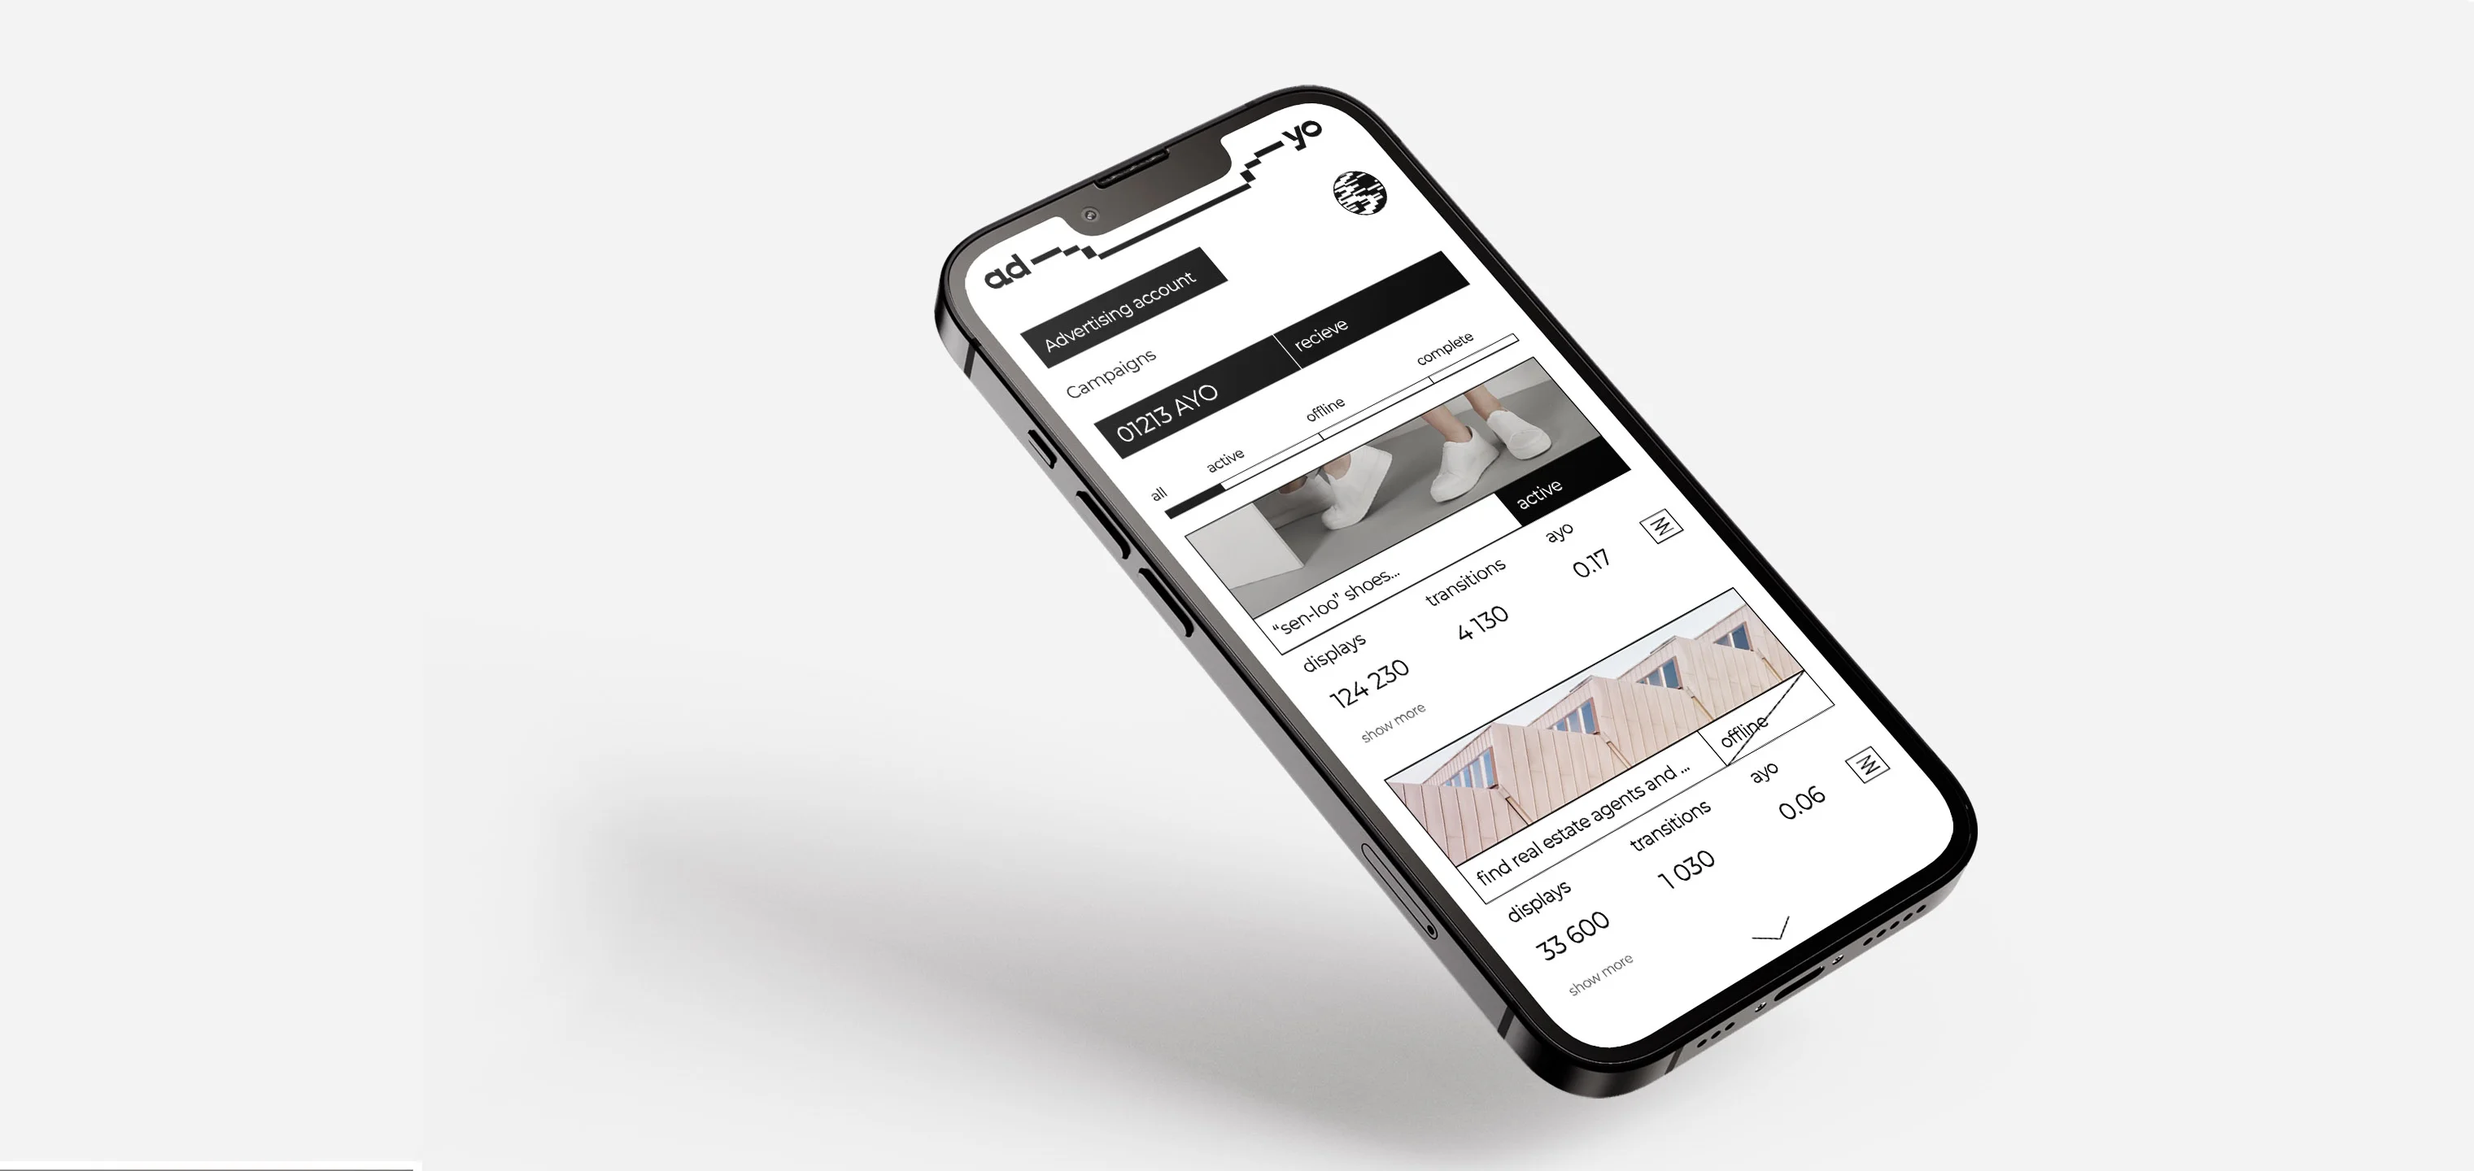
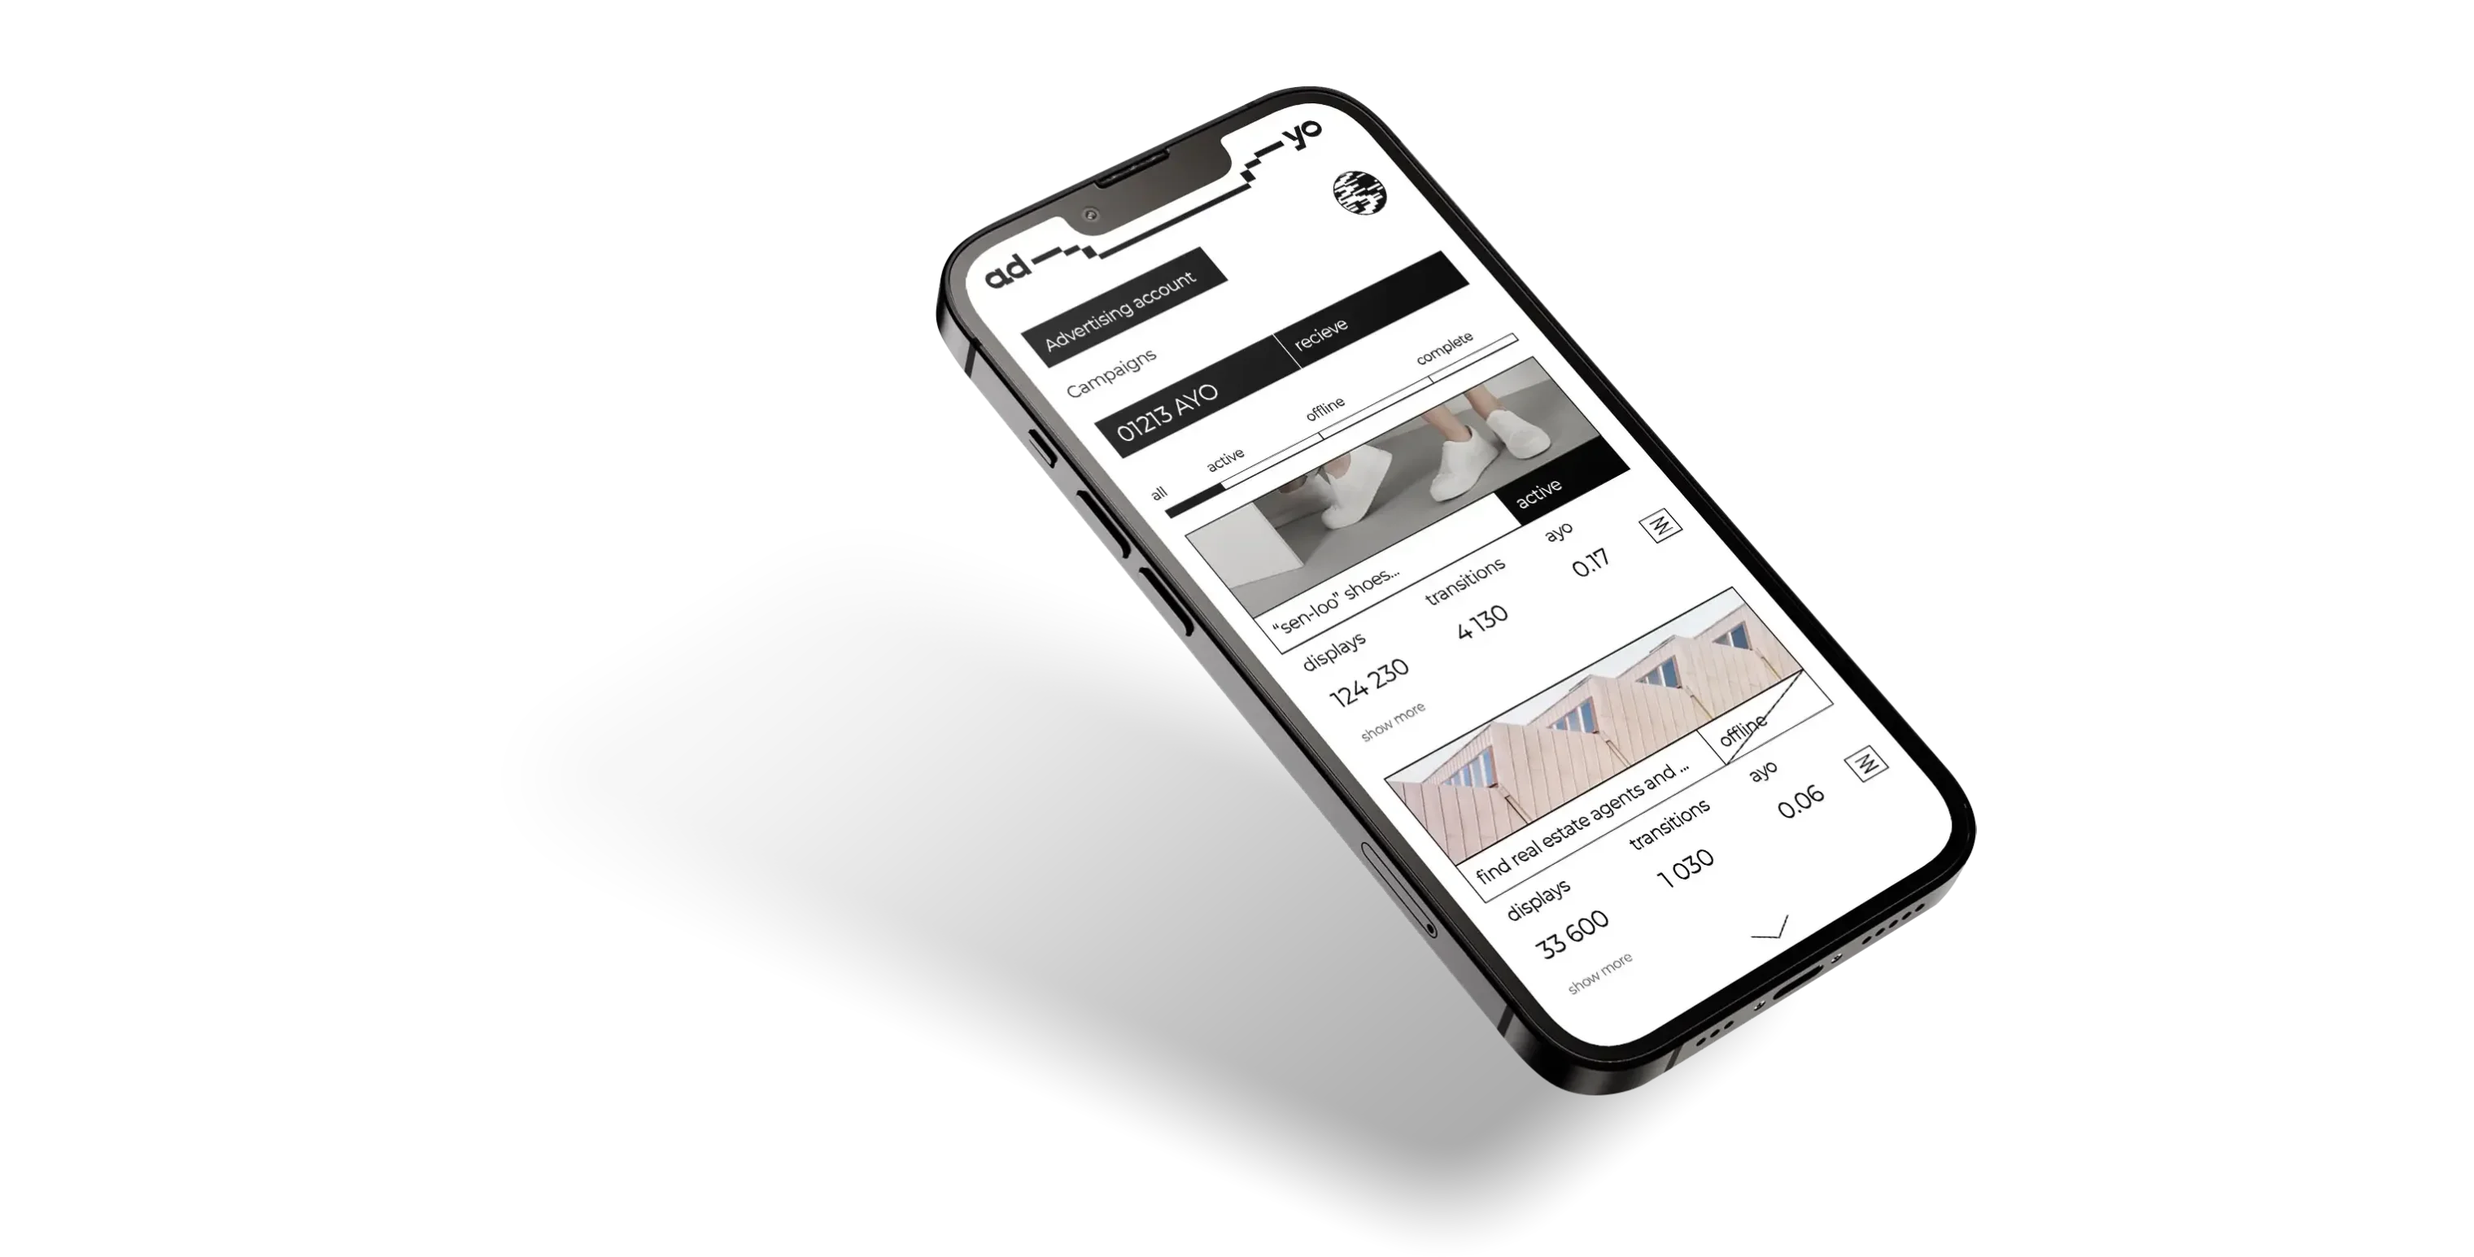
Desktop layout updates

Changed region(s): [[0.2187, 0.0625, 0.8122, 1.0]]

diff --git a/src/components/Snake.vue b/src/components/Snake.vue
@@ -10,7 +10,7 @@ const refBlockCT = ref<HTMLElement>();
 const refBlockRT = ref<HTMLElement>();
 const MIN_WIDTH_DESKTOP = 1280;
 const POINT_SIZE = 8;
-let points: {a: Square, b: Square, c: Square, d: Square, e: Square, f: Square, g: Square};
+let points: { a: Square, b: Square, c: Square, d: Square, e: Square, f: Square, g: Square, bb: Square, cc: Square, ccc: Square, dd: Square, ddd: Square, ee: Square };
 
 let animator: CanvasAnimator;
 
@@ -18,7 +18,7 @@ function onResize() {
   const canvas = refCanvas.value;
   const container = refContainer.value;
   if (canvas && container) {
-    if(animator) {
+    if (animator) {
       if (window.innerWidth < MIN_WIDTH_DESKTOP) {
         animator.pause();
         return;
@@ -63,45 +63,103 @@ function setPositions(): void {
 
     points.a.width = points.b.x - points.a.x;
 
-    points.c.x = Math.round(rectLB.right + ((rectCT.x - rectLB.right) / 2) - (points.c.width / 2));
-    points.c.y = Math.round(rectCT.height / 2 - (points.c.height / 2));
+    points.c.x = correctPoint(rectLB.right + ((rectCT.x - rectLB.right) / 2) - (points.c.width / 2));
+    points.c.y = correctPoint(rectCT.height / 2 - (points.c.height / 2));
 
-    points.d.x = Math.round(rectCT.x + (rectCT.width / 2) - (points.d.width / 2));
-    points.d.y = Math.round(rectLB.y + (rectLB.height * 0.65) - (points.d.height / 2));
+    points.bb.x = correctPoint(points.b.x + ((points.c.x - points.b.x) / 2));
+    points.bb.y = correctPoint(points.b.y + ((points.c.y - points.b.y) * 0.3));
 
-    points.e.x = Math.round(rectCT.right + ((rectRT.x - rectCT.right) / 2) - (points.e.width / 2));
-    points.e.y = Math.round(rectRT.bottom + ((rectRB.y - rectRT.bottom) * 0.4) - (points.e.height / 2));
+    points.d.x = correctPoint(rectCT.x + (rectCT.width / 2) - (points.d.width / 2));
+    points.d.y = correctPoint(rectCT.bottom + rectCT.height - (points.d.height / 2));
 
-    points.f.x = Math.round(rectRB.x + (rectRB.width * 0.4));
-    points.f.y = Math.round(yo.displayObject.y + (yo.displayObject.height / 2) - (points.g.height / 2));
+    points.cc.x = correctPoint(points.c.x + ((rectCT.x - points.c.x) / 2));
+    points.cc.y = correctPoint(points.d.y - (rectCT.height * 0.4));
 
-    points.g.x = Math.round(yo.displayObject.x - points.g.width - POINT_SIZE);
+    points.ccc.x = correctPoint(points.cc.x + ((points.d.x - points.cc.x) / 2));
+    points.ccc.y = correctPoint(points.d.y - (rectCT.height * 0.1));
+
+    points.e.x = correctPoint(rectCT.right + ((rectRT.x - rectCT.right) / 2) - (points.e.width / 2));
+    points.e.y = correctPoint(rectCT.bottom + (rectCT.height * 0.2));
+
+    points.dd.x = correctPoint(rectCT.right - (rectCT.width * 0.25));
+    points.dd.y = correctPoint(points.d.y - (rectCT.height * 0.1));
+
+    points.ddd.x = correctPoint(points.dd.x + ((points.e.x - points.dd.x) / 2));
+    points.ddd.y = correctPoint(points.e.y + ((points.dd.y - points.e.y) * 0.3));
+
+    points.f.x = correctPoint(rectRB.x + (rectRB.width * 0.4));
+    points.f.y = correctPoint(yo.displayObject.y + (yo.displayObject.height / 2) - (points.g.height / 2));
+
+    points.ee.x = correctPoint(points.e.x + ((points.f.x - points.e.x) * 0.3));
+    points.ee.y = correctPoint(points.e.y + ((points.f.y - points.e.y) * 0.1));
+
+    points.g.x = correctPoint(yo.displayObject.x - points.g.width - POINT_SIZE);
     points.g.y = points.f.y;
 
     points.f.width = points.g.x - points.f.x;
 
-
-    const heightBC = points.c.y - points.b.bottom;
-    const widthBC = points.c.x - points.b.right;
-    const maxPointsX = Math.floor(widthBC / POINT_SIZE);
-
-    //console.log(heightBC + "x" + widthBC);
-    //console.log("maxPoints:", maxPointsX);
-
-    /*for(let i = 0, point; i < maxPointsX; i++) {
-      point =
-      animator.addAnimation(
-        new CanvasAnimatorAnimation(new Square(points.b.right + (i * POINT_SIZE), points.b.bottom, POINT_SIZE, POINT_SIZE, "#FF00FF"), {}, 0)
-      )
-    }*/
+    drawLine(points.b, points.bb);
+    drawLine(points.bb, points.c);
+    drawLine(points.c, points.cc);
+    drawLine(points.cc, points.ccc);
+    drawLine(points.ccc, points.d);
+    drawLine(points.d, points.dd);
+    drawLine(points.dd, points.ddd);
+    drawLine(points.ddd, points.e);
+    drawLine(points.e, points.ee);
+    drawLine(points.ee, points.f);
 
   }
+}
 
+function correctPoint(value: number) {
+  return Math.round(value / POINT_SIZE) * POINT_SIZE;
+}
+
+function drawLine(pointA:Square, pointB:Square): void {
+  const dx = Math.abs(pointB.x - pointA.x);
+  const dy = Math.abs(pointB.y - pointA.y);
+  const sx = (pointA.x < pointB.x) ? POINT_SIZE : -POINT_SIZE;
+  const sy = (pointA.y < pointB.y) ? POINT_SIZE : -POINT_SIZE;
+
+  let err = (dx > dy ? dx : -dy) / 2; // Коррекция начальной ошибки
+  let e2;
+  let currentX = pointA.x + sx; // начинаем с первой точки после начальной
+  let currentY = pointA.y + sy; // начинаем с первой точки после начальной
+
+  // Отрисовка начальной точки
+  const startSquare = new Square(pointA.x, pointA.y, POINT_SIZE, POINT_SIZE, getRandomColor());
+  animator.addAnimation(new CanvasAnimatorAnimation(startSquare, {}, 0));
+
+  while (true) {
+    if ((sx > 0 && currentX > pointB.x) || (sx < 0 && currentX < pointB.x) ||
+      (sy > 0 && currentY > pointB.y) || (sy < 0 && currentY < pointB.y)) {
+      break; // Если следующий шаг выходит за пределы, заканчиваем
+    }
+
+    const square = new Square(currentX, currentY, POINT_SIZE, POINT_SIZE, getRandomColor());
+    animator.addAnimation(new CanvasAnimatorAnimation(square, {}, 0));
+
+    e2 = err;
+    if (e2 > -dx) {
+      err -= dy;
+      currentX += sx;
+    }
+    if (e2 < dy) {
+      err += dx;
+      currentY += sy;
+    }
+  }
+}
+
+function getRandomColor() {
+  //return "#" + Math.floor(Math.random() * 16777215).toString(16);
+  return "black";
 }
 
 onMounted(async () => {
   const canvas = refCanvas.value;
-  if(!canvas) return;
+  if (!canvas) return;
 
   window.addEventListener("resize", onResize);
   onResize();
@@ -112,24 +170,30 @@ onMounted(async () => {
   const ad = new Bitmap(images[0]);
   const yo = new Bitmap(images[1]);
   points = {
-    a: new Square(ad.width + POINT_SIZE, Math.round(yo.height * 0.5), POINT_SIZE, POINT_SIZE, "#00FF00"),
-    b: new Square(0, 0, POINT_SIZE, POINT_SIZE, "#FF00FF"),
-    c: new Square(0, 0, POINT_SIZE, POINT_SIZE, "#0000FF"),
-    d: new Square(0, 0, POINT_SIZE, POINT_SIZE, "#00FFFF"),
-    e: new Square(0, 0, POINT_SIZE, POINT_SIZE, "#FF0000"),
-    f: new Square(0, 0, POINT_SIZE, POINT_SIZE, "#FFFF00"),
-    g: new Square(0, 0, POINT_SIZE, POINT_SIZE, "#808080")
-  }
+    a: new Square(ad.width + POINT_SIZE, correctPoint(yo.height * 0.5), POINT_SIZE, POINT_SIZE, "#000"),
+    b: new Square(0, 0, POINT_SIZE, POINT_SIZE, "#000"),
+    bb: new Square(0, 0, POINT_SIZE, POINT_SIZE, "#000"),
+    c: new Square(0, 0, POINT_SIZE, POINT_SIZE, "#000"),
+    ccc: new Square(0, 0, POINT_SIZE, POINT_SIZE, "#000"),
+    cc: new Square(0, 0, POINT_SIZE, POINT_SIZE, "#000"),
+    d: new Square(0, 0, POINT_SIZE, POINT_SIZE, "#000"),
+    dd: new Square(0, 0, POINT_SIZE, POINT_SIZE, "#000"),
+    ddd: new Square(0, 0, POINT_SIZE, POINT_SIZE, "#000"),
+    e: new Square(0, 0, POINT_SIZE, POINT_SIZE, "#000"),
+    ee: new Square(0, 0, POINT_SIZE, POINT_SIZE, "#000"),
+    f: new Square(0, 0, POINT_SIZE, POINT_SIZE, "#000"),
+    g: new Square(0, 0, POINT_SIZE, POINT_SIZE, "#000"),
+  };
   animator.addAnimations(
     new CanvasAnimatorAnimation(ad, {}, 0),
     new CanvasAnimatorAnimation(points.a, {}, 0),
-    new CanvasAnimatorAnimation(points.b, {}, 0),
+    /*new CanvasAnimatorAnimation(points.b, {}, 0),
     new CanvasAnimatorAnimation(points.c, {}, 0),
     new CanvasAnimatorAnimation(points.d, {}, 0),
-    new CanvasAnimatorAnimation(points.e, {}, 0),
+    new CanvasAnimatorAnimation(points.e, {}, 0),*/
     new CanvasAnimatorAnimation(points.f, {}, 0),
     new CanvasAnimatorAnimation(points.g, {}, 0),
-    new CanvasAnimatorAnimation(yo, {}, 0),
+    new CanvasAnimatorAnimation(yo, {}, 0)
   );
 
   setPositions();
@@ -142,17 +206,19 @@ onMounted(async () => {
 });
 
 
-
 </script>
 
 <template>
   <div ref="refContainer" class="flex flex-col grow relative">
-    <canvas ref="refCanvas" class="hidden xl:block w-full h-full absolute top-0 left-0 right-0 bottom-0 bg-emerald-100" />
+    <canvas ref="refCanvas"
+            class="hidden xl:block w-full h-full absolute top-0 left-0 right-0 bottom-0" />
     <div class="xl:hidden">
       <img src="/images/snake_mob_decor_curve_1.svg" width="92" height="29" alt="" aria-hidden="true" loading="lazy" />
-      <img class="w-full mt-10 mb-20" src="/images/snake_mob.svg" width="312" height="148" aria-hidden="true" alt="" loading="lazy">
+      <img class="w-full mt-10 mb-20" src="/images/snake_mob.svg" width="312" height="148" aria-hidden="true" alt=""
+           loading="lazy">
     </div>
-    <div class="flex flex-col xl:flex-row justify-between h-full grow space-y-20 xl:space-y-0 xl:[&>*]:flex-1 xl:[&>*]:max-w-[300px] z-10">
+    <div
+      class="flex flex-col xl:flex-row justify-between h-full grow space-y-20 xl:space-y-0 xl:[&>*]:flex-1 xl:[&>*]:max-w-[300px] z-10">
       <div class="flex flex-col justify-end xl:flex-grow">
         <div ref="refBlockLB" class="info-block">
           <h3>Compliance <br class="hidden xl:block" />with GDPR data protection law</h3>
@@ -169,7 +235,7 @@ onMounted(async () => {
           <h3>Rewards for viewing ads</h3>
           <p>All revenue from ads in the current business model goes to media platforms. The customer themselves acts as
             a
-            product, receiving nothing but access to the platform itself. With Ad-yo, the customer receives all rewards
+            product, receiving nothing but access to the platform itself. With Ad-Yo, the customer receives all rewards
             minus the network commission.</p>
         </div>
       </div>

diff --git a/src/pages/infrastructure.vue b/src/pages/infrastructure.vue
@@ -7,7 +7,7 @@ useSeoMeta({
 
 <template>
   <section class="wrapper bg-infra-top-mob md:bg-infra-top flex flex-col grow md:justify-between">
-    <h1 class="mb-6 md:mb-0">Ad-Yo App and Ad Manager</h1>
+    <h1 class="mb-6 md:mb-0">Ad-Yo App<br class="md:hidden" /> and Ad Manager</h1>
     <div class="flex md:flex-col md:items-end">
       <div class="max-w-[360px]">
         <h2 class="md:h1">Infrastructure</h2>
@@ -47,7 +47,7 @@ useSeoMeta({
       <h2 class="h1 lg:mb-10 wrapper lg:p-0">Ad manager</h2>
       <p class="wrapper lg:p-0">Through a user-friendly interface, the advertiser gets the opportunity to set up advertising campaigns,
         effectively focusing them on the right audience.</p>
-      <img src="/images/bg_infra_ad_manager_mob.webp" width="1449" height="1440" alt="Illustration: Mobile application screenshot" />
+      <img class="block lg:hidden" src="/images/bg_infra_ad_manager_mob.webp" width="1449" height="1440" alt="Illustration: Mobile application screenshot" />
     </div>
   </section>
 </template>

diff --git a/src/components/Abstraction.vue b/src/components/Abstraction.vue
@@ -116,8 +116,6 @@ function onResize(event?: Event): void {
   if (refCanvas.value) {
     const canvas = refCanvas.value;
 
-    console.log("!!!!");
-
     if(window.innerWidth <= 768 && canvasWidth.value !== canvasWidthMobile) {
       redraw(canvasWidthMobile);
     } else if(window.innerWidth > 768 && canvasWidth.value !== canvasWidthDesktop) {
@@ -162,8 +160,10 @@ onMounted(() => {
       entries.forEach(entry => {
         if(entry.isIntersecting) {
           animator.isStarted() ? animator.resume() : animator.start();
+          document.querySelector("#header-logo")?.classList.add("text-white");
         } else {
           animator.isStarted() && animator.pause();
+          document.querySelector("#header-logo")?.classList.remove("animate-logo-to-white", "text-white");
         }
       });
     });

diff --git a/src/assets/css/main.css b/src/assets/css/main.css
@@ -47,7 +47,7 @@
     }
 
     .bg-infra-ad-manager {
-        background: url("/images/bg_infra_ad_manager.webp") no-repeat center center / cover;
+        background: #f3f3f3 url("/images/bg_infra_ad_manager.webp") no-repeat center center / cover;
     }
 
     .bg-roadmap-mob {
@@ -190,7 +190,7 @@
         @apply ease-in-cubic;
         animation-name: kf-logo-to-white;
         animation-duration: 300ms;
-        animation-delay: 1850ms;
+        animation-delay: 1300ms;
         animation-fill-mode: forwards;
 
     }
@@ -207,7 +207,7 @@ html {
             @apply min-h-full flex flex-col;
 
             section {
-                @apply w-full min-h-screen overflow-hidden;
+                @apply w-full min-h-screen overflow-hidden pt-8;
             }
 
             .nuxt-icon {

diff --git a/src/components/Menu.vue b/src/components/Menu.vue
@@ -78,7 +78,7 @@ watch(showMenu, () => {
        :class="{'bg-white bg-opacity-95 h-screen': showMenu}"
   >
     <div class="flex justify-end">
-      <button class="flex-auto flex-shrink flex-grow-0 text-white font-semibold text-lg bg-black px-10 py-1.5 group"
+      <button class="flex-auto mt-3 mr-6 md:mt-0 md:mr-0 flex-shrink flex-grow-0 text-white font-semibold text-lg bg-black px-3 md:px-10 py-1.5 group"
               @click="showMenu = !showMenu">
         <span class="group-hover:opacity-70 transition">menu</span>
       </button>

diff --git a/src/pages/technology.vue b/src/pages/technology.vue
@@ -76,7 +76,7 @@ const nftProfileCopy = [
       <div class="text-block">
         <div class="info-block">
           <h3>Identity verification</h3>
-          <p>Ad-yo customers data about preferences and interests is generated by the customers themselves. Each profile
+          <p>Ad-Yo customers data about preferences and interests is generated by the customers themselves. Each profile
             is unique.</p>
         </div>
         <div class="info-block">

diff --git a/src/pages/contacts.vue b/src/pages/contacts.vue
@@ -8,7 +8,7 @@ useSeoMeta({
 
 <template>
   <section class="wrapper flex flex-col !min-h-0 grow">
-    <h1>Ad-Yo's<br class="md:hidden"/> Contact Information</h1>
+    <h1 class="text-white">Ad-Yo's<br class="md:hidden"/> Contact Information</h1>
     <div class="flex-grow flex items-center justify-center min-h-[350px]">
       <img src="/images/contacts_illustration.svg" width="128" height="170" alt="Illustration" loading="lazy" />
     </div>

diff --git a/src/components/Intro.vue b/src/components/Intro.vue
@@ -11,6 +11,7 @@ function onLogoLettersAnimationEnd(event: Event): void {
 onMounted(() => {
   refAd.value?.addEventListener("animationend", onLogoLettersAnimationEnd);
   refYo.value?.addEventListener("animationend", onLogoLettersAnimationEnd);
+  document.querySelector("#header-logo")?.classList.add("animate-logo-to-white");
 });
 
 onBeforeUnmount(() => {

diff --git a/src/app.vue b/src/app.vue
@@ -1,7 +1,7 @@
 <template>
   <header class="flex justify-between items-center fixed w-full z-50">
     <nuxt-link to="/" class="pl-6 md:pl-10 py-3" aria-label="Ad-Yo Logo">
-      <nuxt-icon name="header_logo" class="animate-logo-to-white" />
+      <nuxt-icon id="header-logo" name="header_logo" />
     </nuxt-link>
     <Menu />
   </header>

diff --git a/src/pages/about.vue b/src/pages/about.vue
@@ -107,7 +107,7 @@ const team = [
     </div>
   </section>
 
-  <section id="team" class="wrapper !pt-28 !pb-40">
+  <section id="team" class="wrapper md:!pt-28 md:!pb-40">
     <h2 class="h1 mb-28">Team</h2>
     <div class="grid md:grid-cols-2 xl:grid-cols-4 gap-16">
       <div class="" v-for="person in team" :key="person.name">
